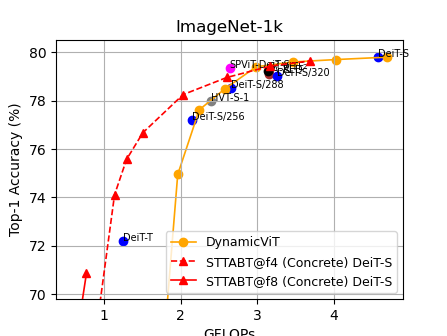
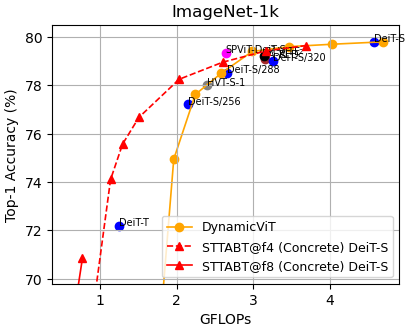
vit flops remove pad

diff --git a/main/plot/vit_concrete_flops.py b/main/plot/vit_concrete_flops.py
@@ -179,8 +179,8 @@ def main(fig_scales=[1.0, 0.7]):
         plt.grid(which='both', axis='both')
 
         filename = './saves_plot/vit-flops' + ('' if fig_scale == 1.0 else f'-x{fig_scale}')
-        plt.savefig(filename+'.png')
-        plt.savefig(filename+'.pdf')
+        plt.savefig(filename+'.png', bbox_inches='tight', pad_inches=0.05)
+        plt.savefig(filename+'.pdf', bbox_inches='tight', pad_inches=0.05)
     
     for fig_scale in fig_scales:
         _render(fig_scale)
